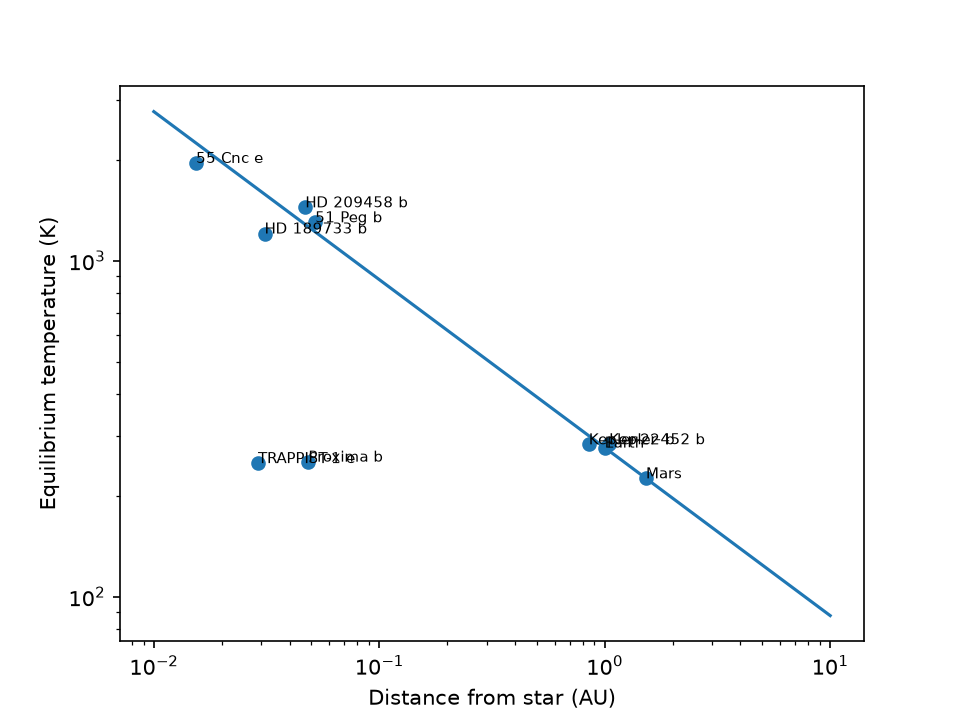
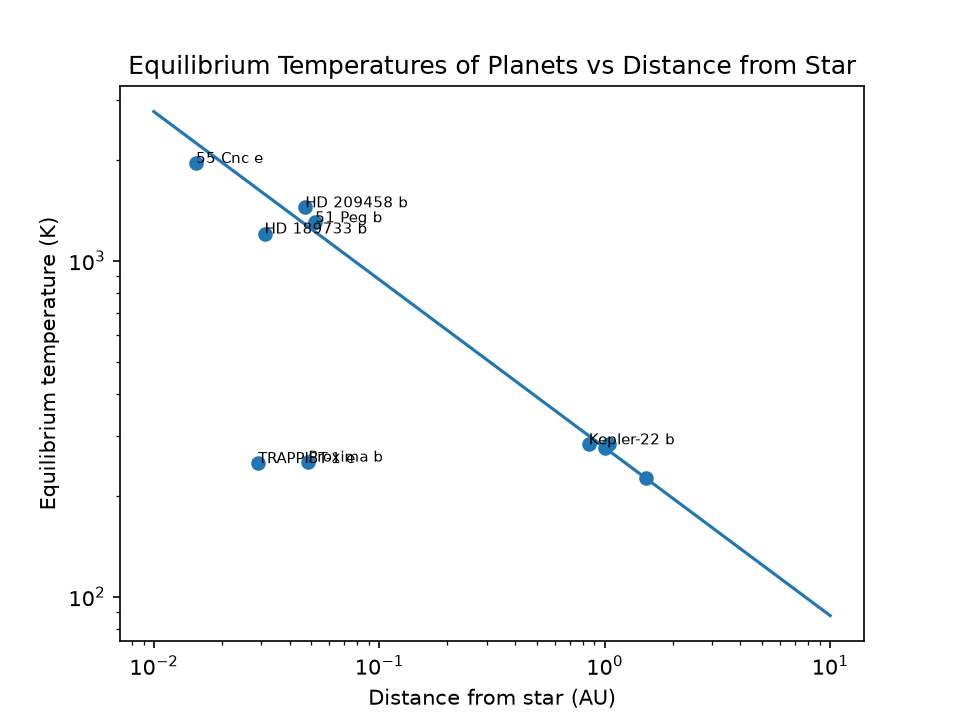
pixelfixer starter

Changed region(s): [[0.125, 0.0611, 0.875, 0.1222], [0.625, 0.5806, 0.7188, 0.6722]]

diff --git a/module-4/planets_plot.py b/module-4/planets_plot.py
@@ -6,6 +6,7 @@ import matplotlib.pyplot as plt
 SIGMA = 5.67e-8          # Stefan-Boltzmann constant, W m^-2 K^-4
 L_SUN = 3.8e26           # solar luminosity, W
 AU = 1.496e11            # meters per AU
+L_HSUN = L_SUN / 2       # half the solar luminosity
 
 name = np.array(["Earth", "Mars", "HD 209458 b", "51 Peg b", "TRAPPIST-1 e",
                  "Kepler-22 b", "55 Cnc e", "HD 189733 b", "Kepler-452 b", "Proxima b"])
@@ -28,13 +29,18 @@ if __name__ == "__main__":
     ax.scatter(dist, T) # plot the equilibrium temperatures of the planets at their respective distances
     ax.plot(d, T_curve) # plot the equilibrium temperature curve for a solar-luminosity star
 
-    ax.set_xlabel("Distance from star (AU)") # label the x-axis
-    ax.set_ylabel("Equilibrium temperature (K)") # label the y-axis
-
     ax.set_xscale("log") # use a logarithmic scale for the x-axis
     ax.set_yscale("log") # use a logarithmic scale for the y-axis
 
-    for n, x, y in zip(name, dist, T): ax.annotate(n, (x, y), fontsize=7) # assign names to data points from the name array
+    for n, x, y in zip(name, dist, T):
+
+        # I tried to change the labels so they wouldn't overlap, but I couldn't figure it out in time.
+
+        ax.annotate(n, (x, y), fontsize=7) # assign names to data points from the name array
+
+    ax.set_xlabel("Distance from star (AU)") # label the x-axis
+    ax.set_ylabel("Equilibrium temperature (K)") # label the y-axis
+    ax.set_title("Equilibrium Temperatures of Planets vs Distance from Star")
     
     fig.savefig("module-4/planets.png", dpi=150) # save the plot to a file
     print("wrote module-4/planets.png") # print a message when the file is saved

diff --git a/module-3/pixelfixer.py b/module-3/pixelfixer.py
@@ -1,0 +1,48 @@
+#------------------------------------------------------------------------------
+# pixelfixer.py: a command-line utility that fixes red-corrupted pixels in an
+# RGB image.
+#
+# Run with:
+#   python pixelfixer.py easy_corrupt_io_small.png
+# which writes fixed_easy_corrupt_io_small.png next to the input.
+#------------------------------------------------------------------------------
+import sys
+import numpy as np
+from matplotlib.pyplot import imread, imsave
+
+
+def pixelfix(I):
+    """Replace bad pixels with the color averaged from their neighbors.
+
+    Parameters
+    ----------
+    I : ndarray, shape (M, N, 3)
+        A color image array in RGB format, values between 0 and 1.
+        A bad pixel has red = 1, green = 0, blue = 0.
+
+    Returns
+    -------
+    Iq : ndarray, same shape as I
+        A copy of the image with the bad pixels fixed.
+    """
+    Iq = I.copy()
+
+    ### YOUR WORK GOES HERE (with the agent, under the Protocol, in stages:
+    ### 1. find the bad pixels and print how many;
+    ### 2. paint them white and look at the result;
+    ### 3. replace the white with the average of the up/down/left/right
+    ###    neighbors. Then try solo_corrupt_io_small.png.)
+
+    return Iq
+
+
+def _main():
+    image_file = sys.argv[1]
+    I = imread(image_file)
+    I = pixelfix(I)
+    imsave('fixed_' + image_file, I)
+    print(f"Wrote fixed_{image_file}")
+
+
+if __name__ == '__main__':
+    _main()
